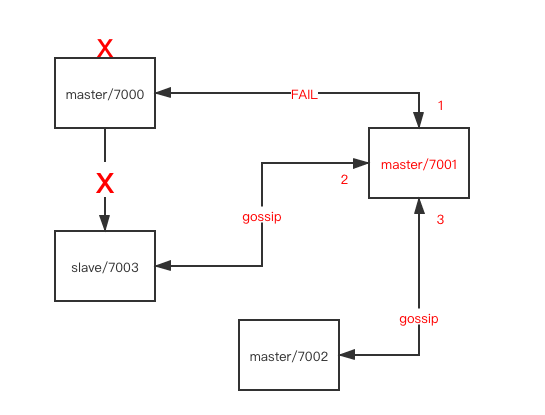
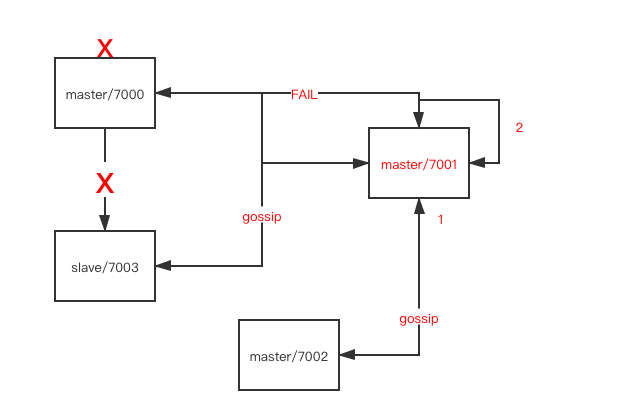
failover done

diff --git a/Server/cluster/failover/failover_cn.md b/Server/cluster/failover/failover_cn.md
@@ -122,13 +122,15 @@
 
 只要一个节点获得了 `master/7000` 的 2 个 `PFAIL` 状态, 那么这个节点就会把 `master/7000` 标记为 `FAIL`
 
+只有槽数大于 1 的 master 节点的 `PFAIL` 算数
+
 ![elect](https://github.com/zpoint/Redis-Internals/blob/5.0/Server/cluster/failover/elect.png)
 
-并且把 `FAIL` 广播给集群中所有的节点
+并且把这个节点的 `FAIL` 状态广播给集群中所有的节点
 
 ![elect2](https://github.com/zpoint/Redis-Internals/blob/5.0/Server/cluster/failover/elect2.png)
 
-Every slave will call `clusterHandleSlaveFailover` in each loop of `clusterCron`
+每一个 slave 在每一次 `clusterCron` 循环中都会调用 `clusterHandleSlaveFailover` 这个函数
 
     void clusterHandleSlaveFailover(void) {
         mstime_t data_age;
@@ -140,37 +142,33 @@ Every slave will call `clusterHandleSlaveFailover` in each loop of `clusterCron`
 
         server.cluster->todo_before_sleep &= ~CLUSTER_TODO_HANDLE_FAILOVER;
 
-        /* Compute the failover timeout (the max time we have to send votes
-         * and wait for replies), and the failover retry time (the time to wait
-         * before trying to get voted again).
-         *
-         * Timeout is MAX(NODE_TIMEOUT*2,2000) milliseconds.
-         * Retry is two times the Timeout.
+        /* 计算 failover 超时 (发送投票消息和等待响应的最大时间)
+         * 和 failover 的重试时间 (再次发起投票请求的时间)
+         * 超时是 MAX(NODE_TIMEOUT*2,2000) 毫秒
+         * 重试时间是 上面的超时 * 2
          */
         auth_timeout = server.cluster_node_timeout*2;
         if (auth_timeout < 2000) auth_timeout = 2000;
         auth_retry_time = auth_timeout*2;
 
-        /* Pre conditions to run the function, that must be met both in case
-         * of an automatic or manual failover:
-         * 1) We are a slave.
-         * 2) Our master is flagged as FAIL, or this is a manual failover.
-         * 3) We don't have the no failover configuration set, and this is
-         *    not a manual failover.
-         * 4) It is serving slots. */
+        /* 不论是手动的 failover 还是自动的 failover
+         * 运行该函数需要满足下面所有的先决条件
+         * 1) 我自己本身是 slave
+         * 2) 我的 master 已经被标记成 FAIL 状态, 或者这次是一个手动的 failover
+         * 3) 设置里没有配置不允许 failover 的选项, 并且本次不是一个手动的 failover
+         * 4）当前节点没有服务任何一个槽
         if (nodeIsMaster(myself) ||
             myself->slaveof == NULL ||
             (!nodeFailed(myself->slaveof) && !manual_failover) ||
             (server.cluster_slave_no_failover && !manual_failover) ||
             myself->slaveof->numslots == 0)
         {
-            /* There are no reasons to failover, so we set the reason why we
-             * are returning without failing over to NONE. */
+            /* 没有必要进行 failover, 我们设置了为什么不能进行 failover 的原因并返回 */
             server.cluster->cant_failover_reason = CLUSTER_CANT_FAILOVER_NONE;
             return;
         }
         /* ... */
-        /* Ask for votes if needed. */
+        /* 必要的时候发起新的一轮投票 */
         if (server.cluster->failover_auth_sent == 0) {
             server.cluster->currentEpoch++;
             server.cluster->failover_auth_epoch = server.cluster->currentEpoch;
@@ -181,17 +179,17 @@ Every slave will call `clusterHandleSlaveFailover` in each loop of `clusterCron`
             clusterDoBeforeSleep(CLUSTER_TODO_SAVE_CONFIG|
                                  CLUSTER_TODO_UPDATE_STATE|
                                  CLUSTER_TODO_FSYNC_CONFIG);
-            return; /* Wait for replies. */
+            return; /* 等待回复 */
         }
 
-        /* Check if we reached the quorum. */
+        /* 查看是否有法定的投票数投了我 */
         if (server.cluster->failover_auth_count >= needed_quorum) {
-            /* We have the quorum, we can finally failover the master. */
+            /* 我们有达到执行的票数, 可以进行 failover */
 
             serverLog(LL_WARNING,
                 "Failover election won: I'm the new master.");
 
-            /* Update my configEpoch to the epoch of the election. */
+            /* 把自己的 configEpoch 设置为选举的 epoch */
             if (myself->configEpoch < server.cluster->failover_auth_epoch) {
                 myself->configEpoch = server.cluster->failover_auth_epoch;
                 serverLog(LL_WARNING,
@@ -199,20 +197,20 @@ Every slave will call `clusterHandleSlaveFailover` in each loop of `clusterCron`
                     (unsigned long long) myself->configEpoch);
             }
 
-            /* Take responsibility for the cluster slots. */
+            /* 执行替换 master 槽等一系列的操作 */
             clusterFailoverReplaceYourMaster();
         } else {
             clusterLogCantFailover(CLUSTER_CANT_FAILOVER_WAITING_VOTES);
         }
     }
 
-If our master is in `FAIL` state, our epoch number will be added, and we will ask every other nodes to vote us, but only master serving at least one slot has the right to vote
+如果我们的 master 在 `FAIL` 状态下, 我们的 epoch 会加一, 并且要求所有其他的至少服务一个槽的 master 节点对我自己进行投票
 
 ![elect3](https://github.com/zpoint/Redis-Internals/blob/5.0/Server/cluster/failover/elect3.png)
 
-And the master will vote only if meet the following requirements
+并且 master 只会在符合以下条件时进行投票
 
-    /* Vote for the node asking for our vote if there are the conditions. */
+    /* 对于要求给他进行投票的节点, 符合以下条时进行投票 */
     void clusterSendFailoverAuthIfNeeded(clusterNode *node, clusterMsg *request) {
         clusterNode *master = node->slaveof;
         uint64_t requestCurrentEpoch = ntohu64(request->currentEpoch);
@@ -221,16 +219,12 @@ And the master will vote only if meet the following requirements
         int force_ack = request->mflags[0] & CLUSTERMSG_FLAG0_FORCEACK;
         int j;
 
-        /* IF we are not a master serving at least 1 slot, we don't have the
-         * right to vote, as the cluster size in Redis Cluster is the number
-         * of masters serving at least one slot, and quorum is the cluster
-         * size + 1 */
+        /* 如果我们不是一个至少服务一个槽的节点, 我们是没有权利进行投票的
+         * 因为集群的大小为 至少服务一个槽的节点的数量, 并且合法投票数的阈值是 集群大小 + 1 */
         if (nodeIsSlave(myself) || myself->numslots == 0) return;
 
-        /* Request epoch must be >= our currentEpoch.
-         * Note that it is impossible for it to actually be greater since
-         * our currentEpoch was updated as a side effect of receiving this
-         * request, if the request epoch was greater. */
+        /* 要求投票的 epoch 数必须大于等于我们自身的 epoch 数
+         * 因为只要请求的 epoch 数比我们自身的 epoch 数大, 我们自己的 epoch 数就会置为请求的 epoch 数, 所以在请求之后实际上请求的 epoch 是不会大于我们自身的 epoch 的 */
         if (requestCurrentEpoch < server.cluster->currentEpoch) {
             serverLog(LL_WARNING,
                 "Failover auth denied to %.40s: reqEpoch (%llu) < curEpoch(%llu)",
@@ -240,7 +234,7 @@ And the master will vote only if meet the following requirements
             return;
         }
 
-        /* I already voted for this epoch? Return ASAP. */
+        /* 我已经对这一轮 epoch 进行过投票了 ? 马上返回 */
         if (server.cluster->lastVoteEpoch == server.cluster->currentEpoch) {
             serverLog(LL_WARNING,
                     "Failover auth denied to %.40s: already voted for epoch %llu",
@@ -249,9 +243,9 @@ And the master will vote only if meet the following requirements
             return;
         }
 
-        /* Node must be a slave and its master down.
-         * The master can be non failing if the request is flagged
-         * with CLUSTERMSG_FLAG0_FORCEACK (manual failover). */
+        /* 请求投票的节点必须是一个 slave 并且它的 master 当前处于无法连接的状态
+         * 但是请求带有 CLUSTERMSG_FLAG0_FORCEACK 标记时可以例外
+         * /
         if (nodeIsMaster(node) || master == NULL ||
             (!nodeFailed(master) && !force_ack))
         {
@@ -271,9 +265,8 @@ And the master will vote only if meet the following requirements
             return;
         }
 
-        /* We did not voted for a slave about this master for two
-         * times the node timeout. This is not strictly needed for correctness
-         * of the algorithm but makes the base case more linear. */
+        /* 我们在 cluster_node_timeout * 2 的延时内是不会对对应节点的 slave 进行投票的
+         * 这不是为了算法的准确性而做的设计, 而是为了表现得更平稳一些 */
         if (mstime() - node->slaveof->voted_time < server.cluster_node_timeout * 2)
         {
             serverLog(LL_WARNING,
@@ -285,9 +278,7 @@ And the master will vote only if meet the following requirements
             return;
         }
 
-        /* The slave requesting the vote must have a configEpoch for the claimed
-         * slots that is >= the one of the masters currently serving the same
-         * slots in the current configuration. */
+        /* 要求投票的 slave 必须拥有 >= 他自己的 master 的槽数(在当前节点的 epoch) */
         for (j = 0; j < CLUSTER_SLOTS; j++) {
             if (bitmapTestBit(claimed_slots, j) == 0) continue;
             if (server.cluster->slots[j] == NULL ||
@@ -295,9 +286,8 @@ And the master will vote only if meet the following requirements
             {
                 continue;
             }
-            /* If we reached this point we found a slot that in our current slots
-             * is served by a master with a greater configEpoch than the one claimed
-             * by the slave requesting our vote. Refuse to vote for this slave. */
+            /* 进到这里, 我们发现了至少一个我们在服务的槽, 同时也在被要求投票的节点的 master 服务着
+             * 并且这个 master 的 epoch 大于请求的 epoch, 我们需要拒绝本次投票 */
             serverLog(LL_WARNING,
                     "Failover auth denied to %.40s: "
                     "slot %d epoch (%llu) > reqEpoch (%llu)",
@@ -307,7 +297,7 @@ And the master will vote only if meet the following requirements
             return;
         }
 
-        /* We can vote for this slave. */
+        /* 我们可以对这个 slave 进行投票 */
         server.cluster->lastVoteEpoch = server.cluster->currentEpoch;
         node->slaveof->voted_time = mstime();
         clusterDoBeforeSleep(CLUSTER_TODO_SAVE_CONFIG|CLUSTER_TODO_FSYNC_CONFIG);
@@ -316,12 +306,12 @@ And the master will vote only if meet the following requirements
             node->name, (unsigned long long) server.cluster->currentEpoch);
     }
 
-Once the slave gets majority of votes, it will become master
+只要这个 slave 获得了集群中超过一半的有效投票, 那么它就会变成 master
 
 ![elect4](https://github.com/zpoint/Redis-Internals/blob/5.0/Server/cluster/failover/elect4.png)
 
-And because the master now has a higher epoch number, if the old master rejoin the cluster, it will follows the configuration of those with higher epoch number, and becomes the slave of the current master
+并且因为这个 master 当前有更高的 epoch 数, 如果之前宕机的 master 此时重新恢复并加入集群, 他会根据更高的 epoch 的节点的配置更新, 并且变成新的 master 的 slave
 
 ![elect5](https://github.com/zpoint/Redis-Internals/blob/5.0/Server/cluster/failover/elect5.png)
 
-The situations in the real world is more complicated, such as multiply slaves and partition, you need to search for more information such as [raft paper](https://raft.github.io/raft.pdf)
+真实世界的情况会更加复杂, 比如多个从节点的投票竞争, 或者网络分区, 课可以查阅更多资料了解相关信息, 比如 [raft 论文](https://raft.github.io/raft.pdf)

diff --git a/Server/cluster/failover/failover.md b/Server/cluster/failover/failover.md
@@ -126,6 +126,8 @@ If `master/7001` is the first node that record two `PFAIL` state for node `maste
 
 As soon as a node gets 2 `PFAIL` state for node `master/7000`, it marks it as `FAIL` state
 
+The votes of `PFAIL` state will only valid for thoese node serves at least 1 slot
+
 ![elect](https://github.com/zpoint/Redis-Internals/blob/5.0/Server/cluster/failover/elect.png)
 
 And broadcast the `FAIL` state info to all reachable nodes
